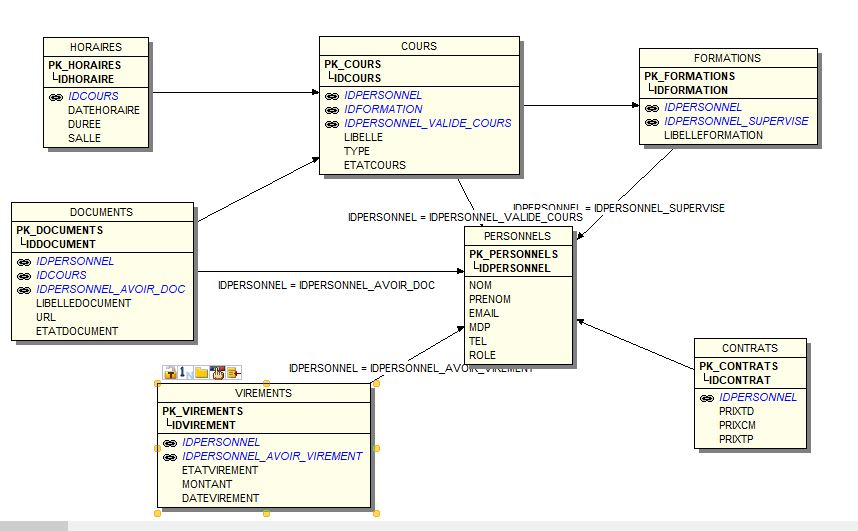
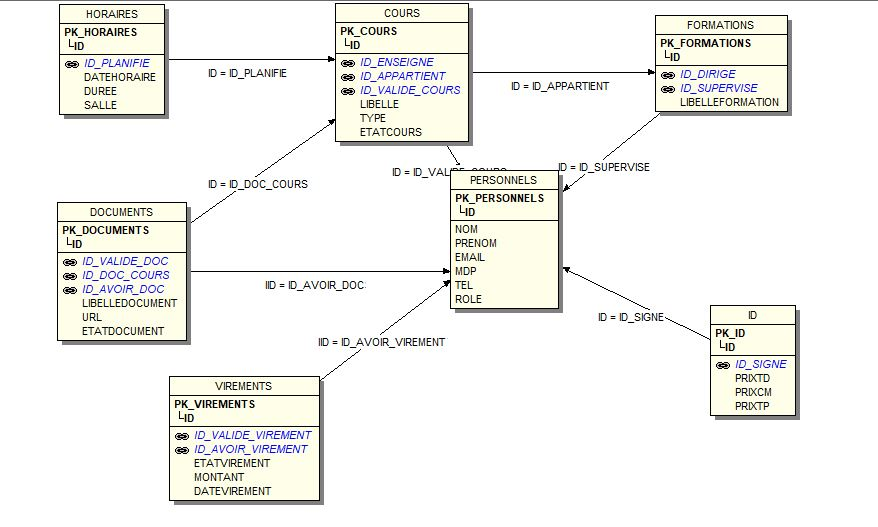
modification database id

diff --git a/view/personnels/index.php b/view/personnels/index.php
@@ -39,10 +39,10 @@
  <!---   <td><p data-placement="top" data-toggle="tooltip" title="modifier"><button class="btn btn-primary btn-xs" data-title="Edit" data-toggle="modal" data-target="#edit" ><span class="glyphicon glyphicon-pencil"></span></button></p></td>
     <td><p data-placement="top" data-toggle="tooltip" title="Delete"><button class="btn btn-danger btn-xs" data-title="Delete" data-toggle="modal" data-target="#delete" ><span class="glyphicon glyphicon-trash"></span></button></p></td> 
   -->
- <td> <a href="<?php echo Router::url('personnels/edit/'.$p->id); ?>"><span class="glyphicon glyphicon-pencil"></span></a> </td>
+ <td> <a href="<?php echo Router::url('personnels/edit/'.$p->ID); ?>"><span class="glyphicon glyphicon-pencil"></span></a> </td>
 
   <td>
-    <a onclick="return confirm('Voulez vous vraiment supprimer ?'); " href="<?php echo Router::url('personnels/delete/'.$p->id); ?>"><span class="glyphicon glyphicon-trash"></span></a>
+    <a onclick="return confirm('Voulez vous vraiment supprimer ?'); " href="<?php echo Router::url('personnels/delete/'.$p->ID); ?>"><span class="glyphicon glyphicon-trash"></span></a>
   </td>
     </tr>
      <?php     }   ?>

diff --git a/core/Model.php b/core/Model.php
@@ -6,7 +6,7 @@ class Model{
 	public $conf = 'default';
 	public $table = false; 
 	public $db; 
-	public $primaryKey = 'id'; 
+	public $primaryKey = 'ID'; 
 	public $id; 
 	public $errors = array();
 	public $form; 

diff --git a/config/conf.php b/config/conf.php
@@ -7,7 +7,7 @@ class Conf{
 
 		'default' => array(
 			'host'		=> 'localhost',
-			'database'	=> 'gestionvacataire',
+			'database'	=> 'gestionvacataires',
 			'login'		=> 'root',
 			'password'	=> ''
 		)
